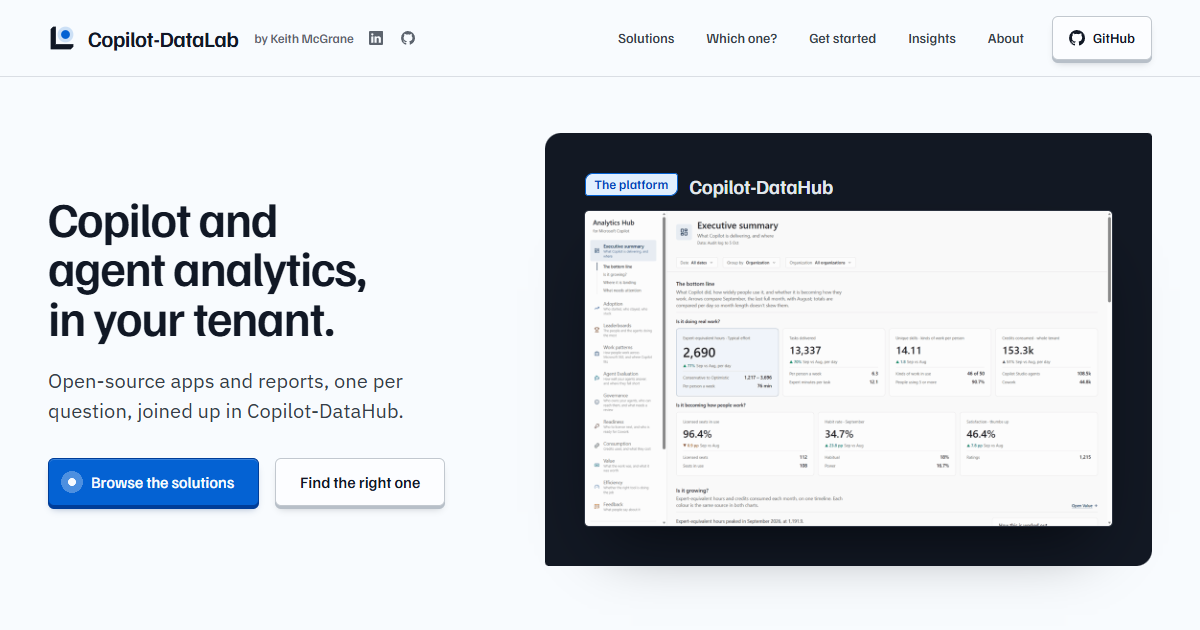
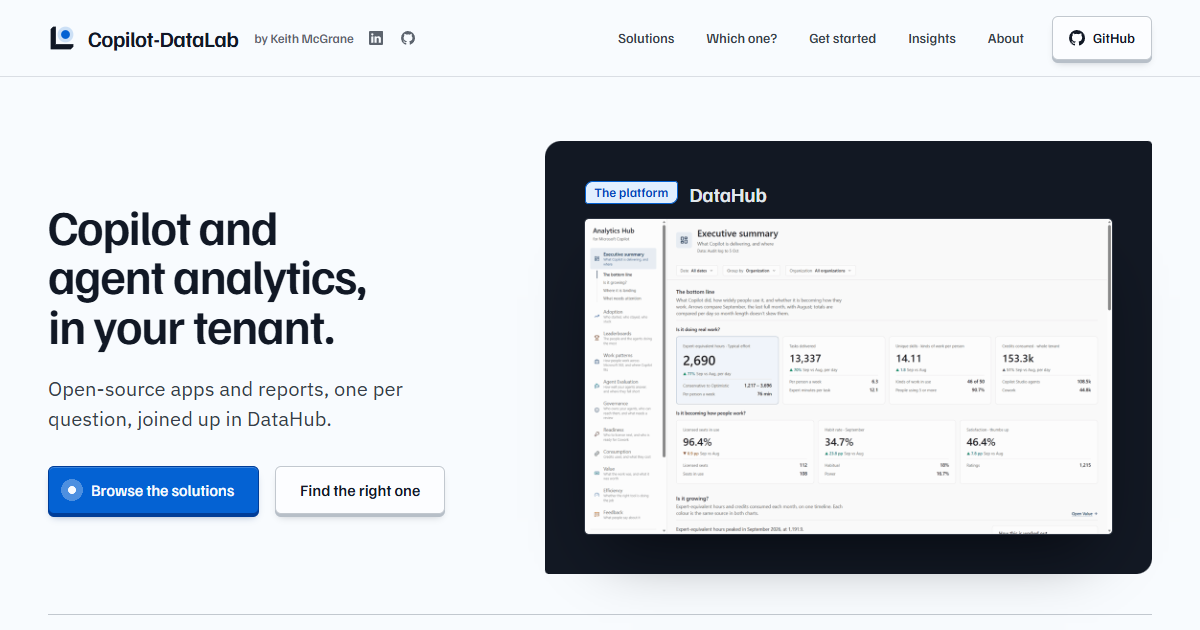
Introduce DataHub name and installer section on the site
Keep existing repository URLs and identifiers; describe only the verified Fabric/Azure DataHub installer scope.

diff --git a/src/App.tsx b/src/App.tsx
@@ -10,6 +10,7 @@ const sections = [
   { id: 'solutions', label: 'Solutions' },
   { id: 'which-one', label: 'Which one do I need?' },
   { id: 'get-started', label: 'Get started' },
+  { id: 'installer', label: 'DataHub installer' },
   { id: 'whats-new', label: 'What’s new' },
 ] as const
 
@@ -154,6 +155,7 @@ function Home({ live }: { live: Live }) {
       <SolutionsSection live={live} />
       <WhichOne />
       <GetStarted />
+      <InstallerSection />
       <WhatsNew live={live} />
     </>
   )
@@ -428,6 +430,48 @@ function GetStarted() {
   )
 }
 
+function InstallerSection() {
+  const repo = `https://github.com/${hub.repo}`
+  return (
+    <section id="installer" className="section" aria-labelledby="installer-title">
+      <div className="wrap">
+        <div className="section-head">
+          <h2 id="installer-title">Install DataHub in your tenant</h2>
+          <p>One guided setup for DataHub on Microsoft Fabric or Azure. It is not a universal installer for every standalone dashboard.</p>
+        </div>
+        <ol className="steps">
+          <li>
+            <span className="step-n" aria-hidden="true">1</span>
+            <h3>Choose Fabric or Azure</h3>
+            <p>Run the Windows installer and choose where DataHub will live. Your data stays in your tenant.</p>
+          </li>
+          <li>
+            <span className="step-n" aria-hidden="true">2</span>
+            <h3>Check prerequisites</h3>
+            <p>Line up capacity, Power BI licensing and the admin approvals needed for your chosen target and modules.</p>
+          </li>
+          <li>
+            <span className="step-n" aria-hidden="true">3</span>
+            <h3>Review before deploying</h3>
+            <p>Sign in, choose the supported modules and review the deployment plan, access grants and costs before approving.</p>
+          </li>
+          <li>
+            <span className="step-n" aria-hidden="true">4</span>
+            <h3>Load, check and maintain</h3>
+            <p>The installer loads the first data and checks the setup. Use its documented refresh, repair and update paths afterwards.</p>
+          </li>
+        </ol>
+        <p className="muted installer-note">The installer is free; Fabric or Azure resources and required licences can incur charges. Standalone apps and reports retain their own setup instructions.</p>
+        <div className="cta-row">
+          <a className="key key-primary" href={`${repo}/releases/latest`} target="_blank" rel="noreferrer">Get the DataHub installer</a>
+          <a className="key" href={`${repo}/blob/main/installer/README.md`} target="_blank" rel="noreferrer">Read the installer guide</a>
+          <a className="key" href={`${repo}/blob/main/docs/PREREQUISITES.md`} target="_blank" rel="noreferrer">Check prerequisites</a>
+        </div>
+      </div>
+    </section>
+  )
+}
+
 function SolutionPage({ s, live }: { s: Solution; live: Live }) {
   const pairs = s.component
     ? [...(s.includes ?? []), ...(s.related ?? [])].map((id) => byId(id)).filter((p): p is Solution => Boolean(p))
@@ -446,6 +490,7 @@ function SolutionPage({ s, live }: { s: Solution; live: Live }) {
           </div>
           <div className="cta-row">
             <DemoLinks id={s.id} className="key" />
+            {s.id === hub.id && <a className="key" href="#installer">DataHub installer</a>}
             <a className="key key-primary" href={`https://github.com/${s.repo}`} target="_blank" rel="noreferrer">
               <GitHubIcon /> Open the repo
             </a>

diff --git a/src/data.ts b/src/data.ts
@@ -1,4 +1,4 @@
-// Each component covers one thing. Copilot-DataHub is the platform that brings them together.
+// Each component covers one thing. DataHub is the platform that brings them together.
 export type Component = 'adoption' | 'value' | 'cost' | 'agents' | 'github'
 
 export const componentLabels: Record<Component, string> = {
@@ -25,7 +25,7 @@ export interface Solution {
   question: string
   /** The one thing this component covers. The platform has none. */
   component?: Component
-  /** A component that is not inside the Copilot-DataHub app yet. */
+  /** A component that is not inside the DataHub app yet. */
   notInHub?: boolean
   runsAs: string[]
   measures: string[]
@@ -41,7 +41,7 @@ export interface Solution {
 export const solutions: Solution[] = [
   {
     id: 'ai-datahub',
-    name: 'Copilot-DataHub',
+    name: 'DataHub',
     repo: 'microsoft/AnalyticsHub-Dashboard',
     summary:
       'The platform that brings it together: one installer sets up an app on Microsoft Fabric or Azure with Copilot and agent adoption, value, consumption and governance in one place.',
@@ -61,7 +61,7 @@ export const solutions: Solution[] = [
       'A Windows 10 or 11 PC. No admin rights needed',
     ],
     videos: [{ label: 'The app, page by page', url: 'https://github.com/microsoft/AnalyticsHub-Dashboard#videos', length: '2 min' }],
-    preview: { src: 'previews/analytics-hub.gif', alt: 'The Copilot-DataHub app, cycling through its pages on sample data' },
+    preview: { src: 'previews/analytics-hub.gif', alt: 'The DataHub app, cycling through its pages on sample data' },
     includes: ['valuelens', 'agent-monitor', 'consumption-central'],
     stars: 10,
   },
@@ -191,7 +191,7 @@ export const solutions: Solution[] = [
     name: 'Agent Monitor',
     repo: 'ai-datalab/Agent-Monitor',
     summary:
-      'The agent inventory and risk reporting Microsoft Agent 365 gives you, without an Agent 365 licence. It covers Agent Builder, Copilot Studio, agent flows and Azure AI Foundry, using roles your admins already hold. Pair it with Copilot-DataHub for agent usage and cost.',
+      'The agent inventory and risk reporting Microsoft Agent 365 gives you, without an Agent 365 licence. It covers Agent Builder, Copilot Studio, agent flows and Azure AI Foundry, using roles your admins already hold. Pair it with DataHub for agent usage and cost.',
     question: 'Which agents exist across the tenant, who owns them, and which need attention?',
     runsAs: ['The app', 'Power BI', 'Local CSV'],
     measures: [
@@ -261,7 +261,7 @@ export const log: LogEntry[] = [
 ]
 
 export const steps = [
-  { title: 'Pick a solution', text: 'Start from the question you need answered. If you want all of it, start with Copilot-DataHub.' },
+  { title: 'Pick a solution', text: 'Start from the question you need answered. If you want all of it, start with DataHub.' },
   { title: 'Try it on sample data', text: 'Watch the demo, or open the app on sample data. There is nothing to install.' },
   { title: 'Line up your admins', text: 'Each repo has a "Before you start" list that says who grants what. Send it round early.' },
   { title: 'Install and share', text: 'Run the installer or open the Power BI template, then share the app with the people who need it.' },

diff --git a/index.html b/index.html
@@ -4,17 +4,17 @@
     <meta charset="UTF-8" />
     <meta name="viewport" content="width=device-width, initial-scale=1.0" />
     <title>Copilot-DataLab: Copilot and agent analytics by Keith McGrane</title>
-    <meta name="description" content="Open-source apps and Power BI reports for Microsoft 365 Copilot and agent adoption, value, cost and agents: Copilot-DataHub, the platform, with AI in One, ValueLens, Consumption Central, Agent Monitor and GitHub Copilot Panel." />
+    <meta name="description" content="Open-source apps and Power BI reports for Microsoft 365 Copilot and agent adoption, value, cost and agents: DataHub, the platform, with AI in One, ValueLens, Consumption Central, Agent Monitor and GitHub Copilot Panel." />
     <link rel="canonical" href="https://ai-datalab.github.io/" />
     <meta property="og:type" content="website" />
     <meta property="og:site_name" content="Copilot-DataLab" />
     <meta property="og:url" content="https://ai-datalab.github.io/" />
     <meta property="og:title" content="Copilot-DataLab: Copilot and agent analytics you run in your own tenant" />
-    <meta property="og:description" content="Free, open-source apps and Power BI reports for Copilot adoption, value, cost and agents, brought together in Copilot-DataHub." />
+    <meta property="og:description" content="Free, open-source apps and Power BI reports for Copilot adoption, value, cost and agents, brought together in DataHub." />
     <meta property="og:image" content="https://ai-datalab.github.io/og.png" />
     <meta property="og:image:width" content="1200" />
     <meta property="og:image:height" content="630" />
-    <meta property="og:image:alt" content="Copilot-DataLab: Copilot and agent analytics, in your tenant, beside a screen from Copilot-DataHub." />
+    <meta property="og:image:alt" content="Copilot-DataLab: Copilot and agent analytics, in your tenant, beside a screen from DataHub." />
     <meta name="twitter:card" content="summary_large_image" />
     <meta name="theme-color" content="#161d2b" />
     <link rel="icon" type="image/svg+xml" href="./favicon.svg" />

diff --git a/src/index.css b/src/index.css
@@ -799,6 +799,7 @@ main:focus { outline: none; }
 .steps h3 { font-weight: 600; letter-spacing: -0.02em; }
 .steps h3 a { color: inherit; text-decoration: underline; text-decoration-color: var(--color-accent); text-underline-offset: 0.18em; }
 .steps p { color: var(--color-ink-2); }
+.installer-note { margin-top: var(--space-xl); max-width: 72ch; }
 
 /* What's new, with related reading beside it */
 .news { display: grid; grid-template-columns: minmax(0, 7fr) minmax(0, 5fr); gap: var(--space-2xl); align-items: start; }

diff --git a/src/SignalField.tsx b/src/SignalField.tsx
@@ -2,7 +2,7 @@ import { useEffect, useRef } from 'react'
 import { componentLabels, components, hub as platform, parts } from './data'
 
 // The platform again, drawn as a character field on the theme's 8 by 16 cell.
-// Copilot-DataHub is the band across the top; each component is a plotted point in
+// DataHub is the band across the top; each component is a plotted point in
 // its own column below. The one the picker has chosen grows its halo.
 const RAMP = ' .:-=+*#%@'
 const CELL_W = 8

diff --git a/README.md b/README.md
@@ -1,14 +1,21 @@
 # Copilot-DataLab
 
 A hub site for my open-source Microsoft 365 Copilot and agent analytics solutions:
-Copilot-DataHub, the platform that brings them together (GitHub Copilot Panel isn't in it yet), and its components: AI in One (adoption),
+DataHub, the platform that brings them together (GitHub Copilot Panel isn't in it yet), and its components: AI in One (adoption),
 ValueLens (value), Consumption Central (consumption and cost), Agent Monitor (agents) and GitHub Copilot Panel (GitHub Copilot).
 
-The site uses the names Copilot-DataLab and Copilot-DataHub. The repos keep their own names: this one is AI-DataLab, and
-Copilot-DataHub is [microsoft/AnalyticsHub-Dashboard](https://github.com/microsoft/AnalyticsHub-Dashboard).
+The site uses the names Copilot-DataLab and DataHub. The repos keep their own names: this one is AI-DataLab, and
+DataHub is [microsoft/AnalyticsHub-Dashboard](https://github.com/microsoft/AnalyticsHub-Dashboard).
 
 It also has an Insights section (posts on measuring AI adoption and value, written with Shailendra Hegde, each readable
 in full on the site) and an About page.
+
+The `#installer` section describes only the DataHub installer, using the
+[installer reference](https://github.com/microsoft/AnalyticsHub-Dashboard/blob/main/installer/README.md)
+and [prerequisites](https://github.com/microsoft/AnalyticsHub-Dashboard/blob/main/docs/PREREQUISITES.md).
+Keep its Fabric/Azure scope and cost/permission caveats explicit; it is not an
+all-app installer. Product copy says DataHub, while repository URLs, legacy
+solution IDs and imported demo provenance retain their original names.
 
 Built with Vite, React and TypeScript. It has no UI framework: the styling is plain CSS in `src/index.css`.
 
@@ -96,7 +103,7 @@ Example entry inside the manifest's `demos` array (replace placeholder provenanc
 
 For report ports, use the matching `-report` slug and `kind: "report"` with the same
 solution ID. Agent Evaluator uses solution ID `agent-evaluator` and repository
-`microsoft/AgentEvaluator-for-Copilot-Studio`; Copilot-DataHub uses solution ID
+`microsoft/AgentEvaluator-for-Copilot-Studio`; DataHub uses solution ID
 `ai-datahub`. Supported source repositories and route combinations are validated
 in `scripts/stage-demos.mjs`.
 
